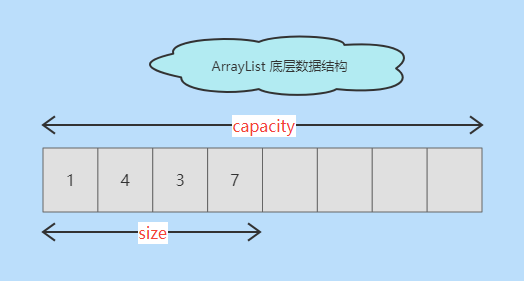
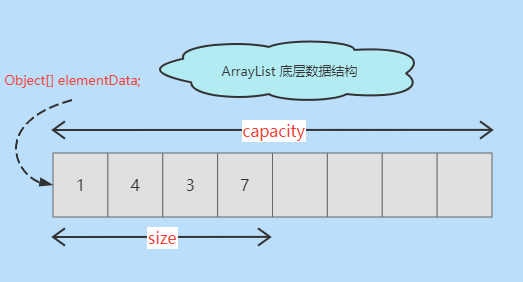
ArrayList 添加配图

diff --git a/docs/Java/Java进阶/Java容器/ArrayList.md b/docs/Java/Java进阶/Java容器/ArrayList.md
@@ -115,7 +115,9 @@ Java 泛型只是编译器提供的语法糖，所以这里的数组是一个 `O
 
 > Tip: 数组进行扩容时，会将老数组中的元素重新拷贝一份到新的数组中，每次数组容量的增长大约是其原容量的 `1.5` 倍。这种操作的代价是很高的，因此在实际使用时，我们应该尽量避免数组容量的扩张。
 > - 当我们可预知要保存的元素的多少时，在构造 `ArrayList` 实例时就指定其容量，以避免数组扩容的发生。
-> - 或者根据实际需求，通过调用 `ensureCapacity` 方法来手动增加 `ArrayList` 实例的容量。
+> - 或者根据实际需求，通过调用 `ensureCapacity` 方法来手动增加 `ArrayList` 实例的容量。  
+
+![ArrayList自动扩容过程](../../../imgs/ArrayList自动扩容过程.png)
 
 ```java
     /**
@@ -222,9 +224,11 @@ Java 泛型只是编译器提供的语法糖，所以这里的数组是一个 `O
 
 ## 添加元素
 
-`add()` 方法向列表中添加一个元素，根据参数不同添加的位置也不同  
+添加单个元素    
 - `add(E e)`列表末尾添加 -  确保容量后把元素附加在列表末尾
 - `add(int index, E element)` 索引位置插入 - 需对索引位置越界检查及确保容量，再对元素进行移动，最后完成插入操作，也就意味着该方法有着线性的时间复杂度
+
+![](../../../imgs/ArrayList添加元素.png)  
 
 ```java
     /**
@@ -260,7 +264,7 @@ Java 泛型只是编译器提供的语法糖，所以这里的数组是一个 `O
     }
 ```
 
-`addAll()` 方法向列表中添加多个元素，和 `add()` 方法一样，根据参数不同添加的位置也不同  
+添加多个元素   
 - `addAll(Collection<? extends E> c)` 末尾添加 - 把集合元素附加到列表末尾
 - `addAll(int index, Collection<? extends E> c)` 索引位置开始插入 - 需对索引位置越界检查及确保容量，再对元素进行移动，最后完成插入操作，其时间复杂度不仅跟插入元素的多少有关，也跟插入的位置相关
 
@@ -323,6 +327,8 @@ Java 泛型只是编译器提供的语法糖，所以这里的数组是一个 `O
 `remove()` 方法移除元素也有两个版本  
 - `remove(int index)` 移除索引位置的元素 - 
 - `remove(Object o)` 移除第一个匹配的元素 - 
+
+![](../../../imgs/ArrayList移除元素.png)
 
 ```java
     /**
@@ -422,86 +428,45 @@ Java 泛型只是编译器提供的语法糖，所以这里的数组是一个 `O
     }
 ```
 
-## 其他操作
+## ArrayList 常用方法一览
 
-- `trimToSize()` 将底层数组的容量调整为当前列表保存的实际元素的大小
+| Modifier and Type | Method and Description                                                                                                                   |
+| :---------------- | :--------------------------------------------------------------------------------------------------------------------------------------- |
+| `boolean`         | `add(E e)`将指定的元素追加到此列表的末尾。                                                                                               |
+| `void`            | `add(int index, E element)`在此列表中的指定位置插入指定的元素。                                                                          |
+| `boolean`         | `addAll(Collection<? extends E> c)`按指定集合的 Iterator 返回的顺序将指定集合中的所有元素追加到此列表的末尾。                            |
+| `boolean`         | `addAll(int index, Collection<? extends E> c)`将指定集合中的所有元素插入到此列表中，从指定的位置开始。                                   |
+| `void`            | `clear()`从列表中删除所有元素。                                                                                                          |
+| `Object`          | `clone()`返回此 `ArrayList`实例的浅拷贝。                                                                                                |
+| `boolean`         | `contains(Object o)`如果此列表包含指定的元素，则返回 `true` 。                                                                           |
+| `void`            | `ensureCapacity(int minCapacity)`如果需要，增加此 `ArrayList`实例的容量，以确保它可以至少保存最小容量参数指定的元素数。                  |
+| `void`            | `forEach(Consumer<? super E> action)`对 `Iterable`的每个元素执行给定的操作，直到所有元素都被处理或动作引发异常。                         |
+| `E`               | `get(int index)`返回此列表中指定位置的元素。                                                                                             |
+| `int`             | `indexOf(Object o)`返回此列表中指定元素的第一次出现的索引，如果此列表不包含元素，则返回-1。                                              |
+| `boolean`         | `isEmpty()`如果此列表不包含元素，则返回 `true` 。                                                                                        |
+| `Iterator<E>`     | `iterator()`以正确的顺序返回该列表中的元素的迭代器。                                                                                     |
+| `int`             | `lastIndexOf(Object o)`返回此列表中指定元素的最后一次出现的索引，如果此列表不包含元素，则返回-1。                                        |
+| `ListIterator<E>` | `listIterator()`返回列表中的列表迭代器（按适当的顺序）。                                                                                 |
+| `ListIterator<E>` | `listIterator(int index)`从列表中的指定位置开始，返回列表中的元素（按正确顺序）的列表迭代器。                                            |
+| `E`               | `remove(int index)`删除该列表中指定位置的元素。                                                                                          |
+| `boolean`         | `remove(Object o)`从列表中删除指定元素的第一个出现（如果存在）。                                                                         |
+| `boolean`         | `removeAll(Collection<?> c)`从此列表中删除指定集合中包含的所有元素。                                                                     |
+| `boolean`         | `removeIf(Predicate<? super E> filter)`删除满足给定谓词的此集合的所有元素。                                                              |
+| `protected void`  | `removeRange(int fromIndex, int toIndex)`从这个列表中删除所有索引在 `fromIndex` （含）和 `toIndex`之间的元素。                           |
+| `void`            | `replaceAll(UnaryOperator<E> operator)`将该列表的每个元素替换为将该运算符应用于该元素的结果。                                            |
+| `boolean`         | `retainAll(Collection<?> c)`仅保留此列表中包含在指定集合中的元素。                                                                       |
+| `E`               | `set(int index, E element)`用指定的元素替换此列表中指定位置的元素。                                                                      |
+| `int`             | `size()`返回此列表中的元素数。                                                                                                           |
+| `void`            | `sort(Comparator<? super E> c)`使用提供的 `Comparator`对此列表进行排序以比较元素。                                                       |
+| `List<E>`         | `subList(int fromIndex, int toIndex)`返回此列表中指定的 `fromIndex` （包括）和 `toIndex`之间的独占视图。                                 |
+| `Object[]`        | `toArray()`以正确的顺序（从第一个到最后一个元素）返回一个包含此列表中所有元素的数组。                                                    |
+| `<T> T[]`         | `toArray(T[] a)`以正确的顺序返回一个包含此列表中所有元素的数组（从第一个到最后一个元素）; 返回的数组的运行时类型是指定数组的运行时类型。 |
+| `void`            | `trimToSize()`修改这个 `ArrayList`实例的容量是列表的当前大小。                                                                           |
 
-```java
-    /**
-     * 将底层数组的容量调整为当前列表保存的实际元素的大小
-     */
-    public void trimToSize() {
-        modCount++;
-        // 如果数组容量大于元素个数(没装满)
-        if (size < elementData.length) {
-            elementData = (size == 0)
-
-              // 如果元素个数为 0， 赋值共享共数组实例
-              ? EMPTY_ELEMENTDATA
-
-              // 拷贝列表元素到一个数组容量与元素个数相等的数组
-              : Arrays.copyOf(elementData, size);
-        }
-    }
-```
-
-- `indexOf()` 获取元素第一次出现的索引，如未找到则返回 -1
-
-```java
-    /**
-     * 获取元素第一次出现的索引,如未找到则返回 -1
-     * 如果使用 Objects.equals(Object a, Object b)判断元素是否相等是否就不需要区分 null 了
-     */
-    public int indexOf(Object o) {
-        // 查找的元素为 null
-        if (o == null) {
-            for (int i = 0; i < size; i++)
-                // 返回第一个 等于 null 的元素索引
-                if (elementData[i]==null)
-                    return i;
-        } 
-        // 查找的元素不为 null
-        else {
-            for (int i = 0; i < size; i++)
-                // 返回第一个与之相等的元素索引
-                if (o.equals(elementData[i]))
-                    return i;
-        }
-    
-        // 如未找到则返回 -1
-        return -1;
-    }
-```
-
-- `lastIndexOf()` 获取元素最后一次出现的索引，如未找到则返回 -1
-
-```java
-    /**
-     * 获取元素最后一次出现的索引(数组反向查找)，如未找到则返回 -1
-     */
-    public int lastIndexOf(Object o) {
-        // 查找的元素为 null
-        if (o == null) {
-            for (int i = size-1; i >= 0; i--)
-                // 数组反向查找，返回第一个 等于 null 的元素索引
-                if (elementData[i]==null)
-                    return i;
-        } 
-        // 查找的元素不为 null
-        else {
-            for (int i = size-1; i >= 0; i--)
-                // 数组反向查找，返回第一个与之相等的元素索引
-                if (o.equals(elementData[i]))
-                    return i;
-        }
-
-        // 如未找到则返回 -1
-        return -1;
-    }
-```
 
 ## 阅读资料
 
 - [全栈知识体系-ArrayList源码解析](https://www.pdai.tech/md/java/collection/java-collection-ArrayList.html)
 - [CarpenterLee-ArrayList源码解析](https://www.cnblogs.com/CarpenterLee/p/5419880.html)
 - [zhangshixi-ArrayList源码解析](https://www.iteye.com/blog/zhangshixi-674856)
+- [Java 8 在线文档](https://www.matools.com/api/java8)
